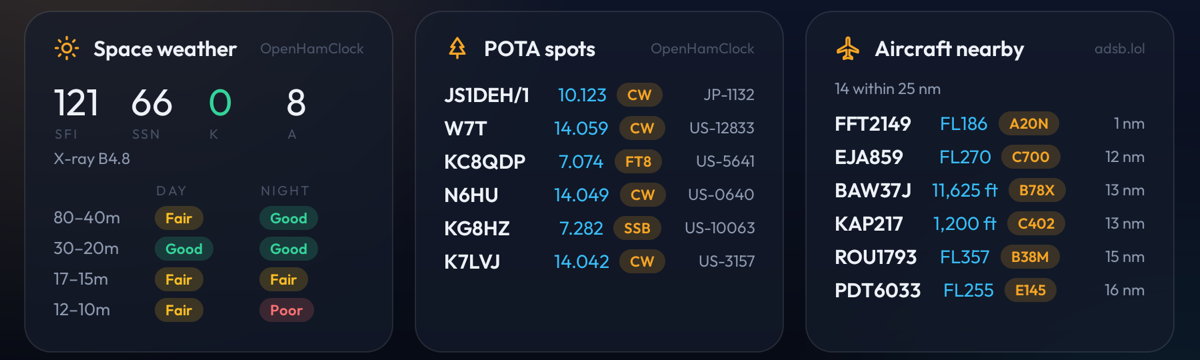
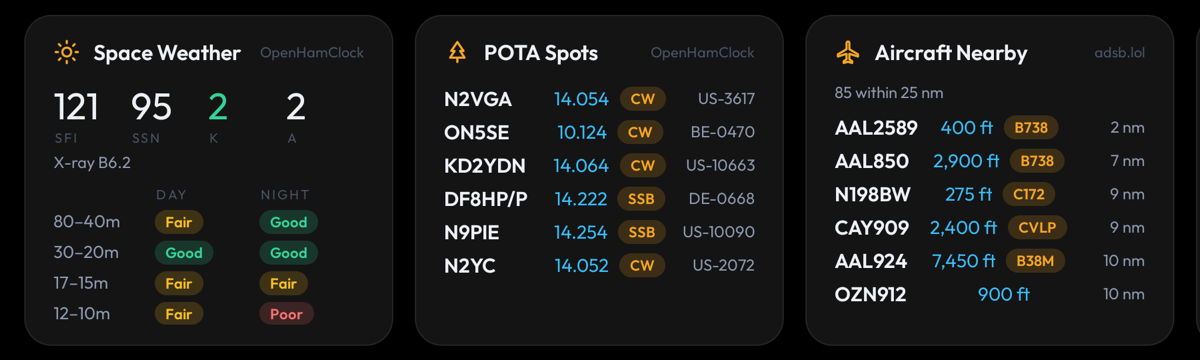
README: new screenshots (call signs, title-case widgets, All applications sidebar, light theme)

diff --git a/README.md b/README.md
@@ -27,23 +27,23 @@ Live **widgets** across the top: space weather, POTA and DX spots, satellite pas
 
 ## Screenshots
 
-**Home**: widgets on top, your applications along the bottom
+**Home**: the clock and your call signs, widgets in the middle, your applications along the bottom
 
 ![Home](docs/screenshots/home.png)
 
-**All applications**, by category
+**All applications**: categories with counts down the side
 
 ![All applications](docs/screenshots/all-applications.png)
 
-**Widgets**: space weather, POTA spots, aircraft nearby
+**Widgets**: Space Weather, POTA Spots, Aircraft Nearby
 
-![Space weather, POTA spots and aircraft nearby](docs/screenshots/widgets-space-weather-pota-aircraft.png)
+![Space Weather, POTA Spots and Aircraft Nearby](docs/screenshots/widgets-space-weather-pota-aircraft.png)
 
-**Widgets**: mesh messages, satellites heard by SatNOGS, satellite passes
+**Widgets**: Mesh Messages, Heard By SatNOGS, Satellite Passes
 
-![Mesh messages, SatNOGS and satellite passes](docs/screenshots/widgets-mesh-satnogs-satellite-passes.png)
+![Mesh Messages, Heard By SatNOGS and Satellite Passes](docs/screenshots/widgets-mesh-satnogs-satellite-passes.png)
 
-**Widget**: weather
+**Widget**: Weather
 
 <img src="docs/screenshots/widget-weather.png" alt="Weather widget" width="33%"/>
 
